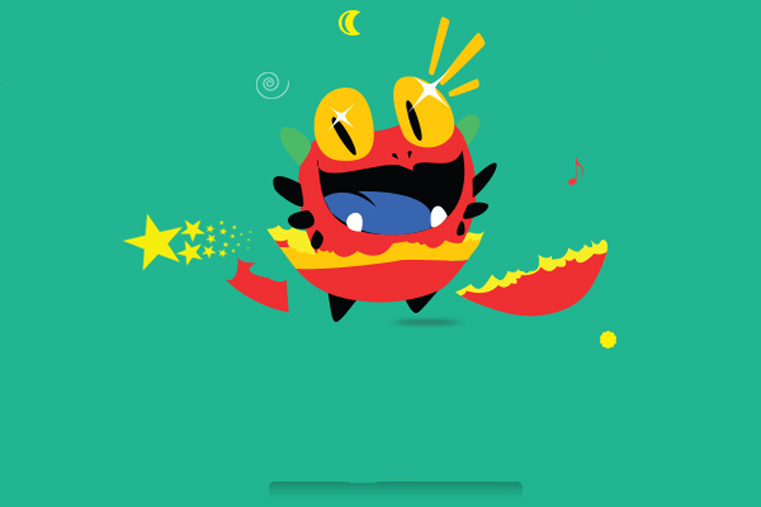
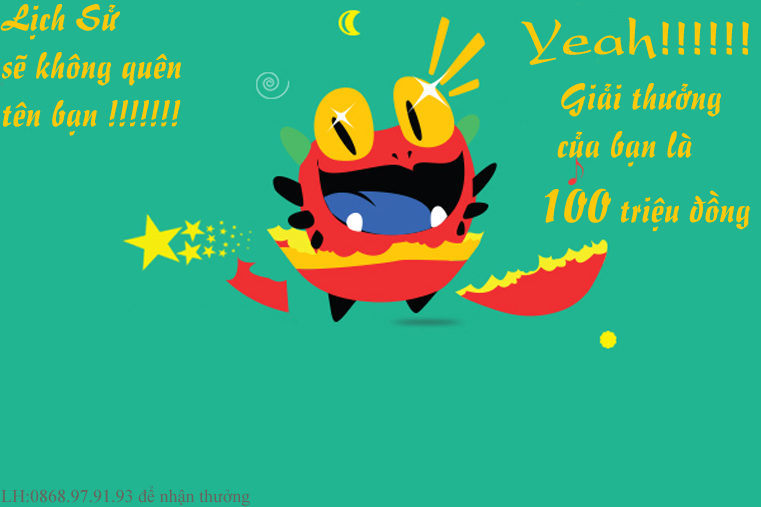
up

diff --git a/Project8/quiz.js b/Project8/quiz.js
@@ -1,10 +1,9 @@
 var question = [ques_1={content: 'Chủ tịch Hồ Chí Minh sinh năm nào?', A: '1895', B:'1890', C:'1900', D:'1893', aright:'1890'},
-				ques_2={content: 'Chiến thắng Điện Biên Phủ vào năm nào?', A:'1950', B:'1952', C:'1955', D:'1954', aright:'1954'},
+				ques_2={content: 'Chiến tranh thế giới thứ nhất xảy ra năm nào?', A: '1918', B:'1914', C:'1916', D:'1917', aright:'1914'},
 				ques_3={content: 'Giải phóng Miền Nam vào năm nào?', A: '1972', B:'1975', C:'1973', D:'1976', aright:'1975'},
-				ques_4={content: 'Ai là Tổng thống Mỹ hiện tại?', A: 'Vladimir Putin', B:'Donal Trump', C:'Hilary Clinton', D:'Obama', aright:'Donal Trump'},
-				ques_5={content: '"Kong Skull-Island" là phim nước nào sản xuất?', A: 'Mỹ', B:'Pháp', C:'Anh', D:'Đức', aright:'Mỹ'},
+				ques_4={content: 'Chiến thắng Điện Biên Phủ vào năm nào?', A: '1950', B:'1952', C:'1955', D:'1954', aright:'1954'},
+				ques_5={content: 'Chiến tranh thế giới lần hai xảy ra năm nào?', A: '1939', B:'1936', C:'1940', D:'1938', aright:'1939'},
 ];
-
 function trans_quizpage()
 	{window.location.href = 'quiz.html'};
 function trans_homepage()
@@ -12,9 +11,9 @@ function trans_homepage()
 function trans_rulepage()
 	{window.location.href = 'rule.html'};
 function trans_victory()
-	{}
+	{window.location.href = 'victory.html'};
 function trans_playagain()
-	{}
+	{window.location.href = 'again.html'};
 
 
 function back_color() {
@@ -26,16 +25,16 @@ var score = 0;
 function choise_color(a) {
 	back_color();
 	a.style.backgroundColor = "#ff6600";
-	/********Score******/
+	
 	for (var i = 0; i < question.length; i++)
 	{
-		if (a.value==question[i].aright){
+		if (a.value==question[i].aright)
+		{
 			score +=1;
 		}
 	}
 	return score;
 }
-	/********Score******/
 
 document.getElementById("ques_index").value = question[0].content;
 document.getElementById("ans_1").value = question[0].A;
@@ -45,22 +44,28 @@ document.getElementById("ans_4").value = question[0].D;
 
 var i = 1;
 function next_ques()
-{
+{		
 		document.getElementById("ans_1").style.backgroundColor = "#616161";
 		document.getElementById("ans_2").style.backgroundColor = "#616161";
 		document.getElementById("ans_3").style.backgroundColor = "#616161";
 		document.getElementById("ans_4").style.backgroundColor = "#616161";
-	 	if (i<=question.length) 
+	 	if (i<question.length) 
 		{
 		 	document.getElementById("ques_index").value = question[i].content;
 			document.getElementById("ans_1").value = question[i].A;
 			document.getElementById("ans_2").value = question[i].B;
 			document.getElementById("ans_3").value = question[i].C;
 			document.getElementById("ans_4").value = question[i].D;
-			if (i==question.length) {
+			if (i==(question.length-1)) 
+			{
 			document.getElementById("next_ques").value = "Finish";
 			}
-		}
+		}	
+		if (i==question.length)  {
+			if(score==question.length){window.location.href = 'victory.html'}
+			else{window.location.href = 'again.html';};
+			}
+		document.getElementById('result').innerText="Đáng tiếc bạn chỉ trả lời đúng "+score+"/5 câu hỏi. Hãy suy nghĩ kỹ trước khi trả lời!";
 		i++;
 }
 

diff --git a/Project8/quiz.css b/Project8/quiz.css
@@ -11,7 +11,7 @@ body{
 	width: 841px;
 	height: 518px;
 	border-radius: 20px;
-	background-image: url(bg.png);
+	background-image: url(bg1.jpg);
 	position: relative;
 }
 #logo{
@@ -31,8 +31,8 @@ body{
 	font-size: 24px;
 	position: absolute;
 }
-.select:nth-child(1){top: 280px;left: 185px;}
-.select:nth-child(2){top: 280px;left: 465px;}
+.select:nth-child(1){top: 380px;left: 185px;}
+.select:nth-child(2){top: 380px;left: 465px;}
 .select:hover{
 	cursor: pointer;
 	background-color: #00ff00;
@@ -46,8 +46,8 @@ body{
 	text-align: justify;
 	position: relative;
 	width: 600px;
-	top: 245px;
-	left: 124px;
+	top: 310px;
+	left: 115px;
 }
 #back_home1{
 	width: 180px;
@@ -59,16 +59,16 @@ body{
 	font-weight: bold;
 	font-size: 24px;
 	position: absolute;
-	bottom: 50px;
-	right: 115px;
+	bottom: 25px;
+	right: 17px;
 }
 #back_home1:hover{cursor: pointer;background-color: #00ff00}
 /*****************CSS victory-page*************/
 #content2{
 	margin: 50px auto;
-	width: 841px;
-	height: 518px;
-	border-radius: 20px;
+	width: 760px;
+	height: 510px;
+	border-radius: 5px;
 	background-image: url(victory.jpg);
 	position: relative;
 }
@@ -83,14 +83,14 @@ body{
 	font-size: 24px;
 	position: absolute;
 	bottom: 35px;
-	right: 350px;
+	right: 285px;
 }
 #back_home2:hover{cursor: pointer;background-color: #00ff00}
 /*****************CSS playagain-page*************/
 #content3{
 	margin: 50px auto;
-	width: 841px;
-	height: 500px;
+	width: 750px;
+	height: 450px;
 	border-radius: 20px;
 	background-image: url(playagain.jpg);
 	position: relative;
@@ -119,7 +119,7 @@ body{
 	font-size: 24px;
 	position: absolute;
 	bottom: 40px;
-	right: 210px;
+	right: 165px;
 }
 #back_home3:hover,#trans_page3:hover{cursor: pointer;background-color: #00ff00}
 /*****************CSS quiz-page*************/
@@ -127,7 +127,7 @@ body{
 	width: 841px;
 	height: 518px;
 	margin: 50px auto;
-	background-image: url(Screen.png);
+	background-image: url(background.jpg);
 	position: relative;
 	border-radius: 30px;
 }

diff --git a/Project8/rule.html b/Project8/rule.html
@@ -7,7 +7,7 @@
 </head>
 <body>
 	<div id="content1">
-		<p id="rules">Có tổng cộng 5 câu hỏi với nhiều chủ đề, người chơi phải trả lời hết 5 câu hỏi trên. Trả lời đúng mỗi câu tương ứng với 20 triệu đồng. Trả lời đúng cả 5 câu người chơi nhận ngay 100 triệu đồng.</br> Trả lời sai một câu bất kỳ phần thưởng về 0 đồng.</br></br><i>Chúc bạn may mắn!...</i></p>
+		<p id="rules">Có tổng cộng 5 câu hỏi về chủ đề lịch sử, người chơi phải trả lời hết 5 câu hỏi trên. Trả lời đúng mỗi câu tương ứng với 20 triệu đồng. Trả lời đúng cả 5 câu người chơi nhận ngay 100 triệu đồng.</br> Trả lời sai một câu bất kỳ phần thưởng về 0 đồng.</br></br><i>Chúc bạn may mắn!...</i></p>
 		<input  id="back_home1" type="button" value="Back to Home" onclick="trans_homepage()">
 	</div>
 	

diff --git a/Project8/again.html b/Project8/again.html
@@ -7,6 +7,7 @@
 </head>
 <body>
 	<div id="content3" >
+		<div><p id="result"></p></div>
 		<input  id="back_home3" type="button" value="Back to Home" onclick="trans_homepage()">
 		<input  id="trans_page3" type="button" value="Play Again" onclick="trans_quizpage()">
 		<audio autoplay loop>

diff --git a/Project8/quiz.html b/Project8/quiz.html
@@ -7,7 +7,6 @@
 </head>
 <body>
 	<div id="content" >
-		<img src="logo.png" id="logo">
 		<input type="text" class="question" readonly id="ques_index"></br>
 		<div class="answer">
 			<input type="button" class="item"  id="ans_1" onclick="choise_color(this)">
